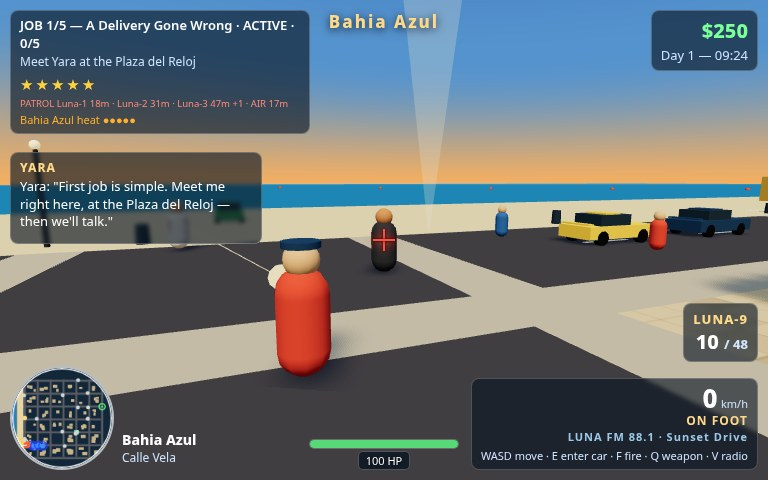
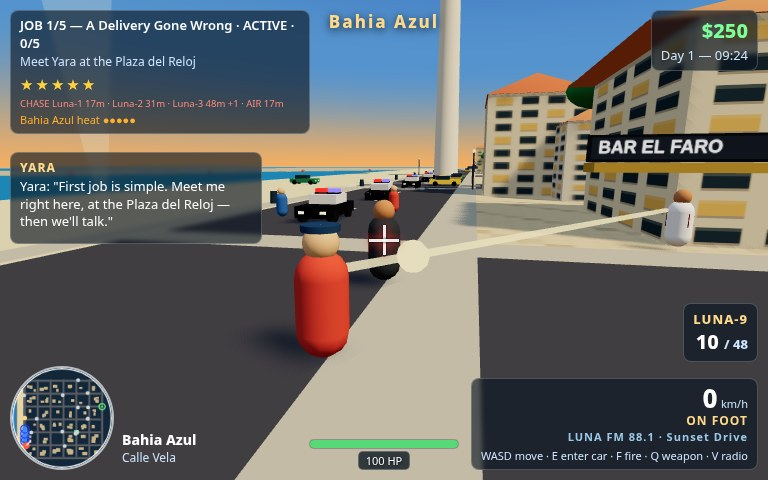
P0: re-stage combat shot — bigger guard, readable muzzle flash/tracer, CHASE patrol line

diff --git a/game/src/shots.js b/game/src/shots.js
@@ -153,20 +153,13 @@ function aimAt(world, tx, tz) {
   p.pitch = 0.1;
 }
 
-// Combat camera: a fixed side-on pose built from the live positions,
-// so the frame is composed rather than left to the follow camera.
-// The camera sits ~5.5 m behind the player (relative to the framed
-// guard) and ~2.2 m to the side, 3.1 m up, looking at the framed
-// guard's chest. The guard lands near screen centre — where the
-// crosshair lives — while the player sits off-centre in the
-// foreground, so the crosshair never sits on the player's back and
-// the tracer from the player's gun to the far guard cuts diagonally
-// across the frame. 5.5 m is the tuned distance: at 6.5 m the BAR EL
-// FARO sign — 8 m north of the player — poked its west end into the
-// right edge, and at 4.5 m the sign was gone but the player ballooned
-// to ~200 px and dominated the frame; at 5.5 m the sign clears the
-// edge by ~20 px and the player stays a foreground figure, not the
-// subject.
+// Combat camera: a fixed side-on pose from the live positions, so
+// the frame is composed rather than left to the follow camera.
+// 5.5 m behind the player, 2.2 m to the side, 3.1 m up, looking at
+// the framed guard's chest: the guard lands at screen centre —
+// where the crosshair lives — the player sits off-centre in the
+// foreground, and the tracer to the far guard cuts diagonally
+// across the frame. Tuned by projection, verified by eye.
 function combatShotCam(world, guard) {
   const p = world.player.state;
   const dx = guard.x - p.x, dz = guard.z - p.z;
@@ -190,28 +183,26 @@ function combatShotCam(world, guard) {
 // the player again.
 export const FOOT_CAR_OFFSET = { dx: -2.4, dz: -1.3 };
 
-// Combat background traffic: cars on the roads behind the fight, so
-// the harbor shot is not an empty lot. All three sit on real road
-// lines (x = -150 vertical, z = 110 coastal) and project into the
-// frame's background (verified by projection against the combat
-// camera) without touching the framed guard's screen box.
+// Combat background traffic: cars on the z=58 road far behind the
+// fight, so the harbor shot is not an empty lot. All three sit on a
+// real road line and project into the frame's background (verified by
+// projection against the combat camera) without touching the framed
+// guard's screen box.
 export const COMBAT_BACKGROUND_TRAFFIC = [
-  { x: -150, z: 92, heading: Math.PI }, // north on the x=-150 road, right background
-  { x: -150, z: 84, heading: Math.PI }, // further north, far-right edge
-  { x: -168, z: 110, heading: -Math.PI / 2 }, // west on the coastal road, mid-left
+  { x: -146, z: 58, heading: Math.PI / 2 }, // east on the z=58 road, centre background
+  { x: -124, z: 58, heading: Math.PI / 2 }, // further east, right background
+  { x: -168, z: 58, heading: Math.PI / 2 }, // west end, far-left edge
 ];
 
-// Combat pursuit staging: the responding units sit at genuinely
-// different ranges from the player instead of the spawn ring's four
-// identical 43 m. Offsets east along the coastal road; the distances
-// are computed live by policeStatus from these positions, never
-// hardcoded into the HUD. States are left exactly as the sim gave
-// them (PATROL here) — only positions are staged.
+// Combat pursuit: units at genuinely different ranges, staged
+// north up the x=-150 road so the north-looking camera sees them.
+// States are CHASE (wanted 5 — the response); distances come live
+// from policeStatus, never hardcoded into the HUD.
 export const COMBAT_PURSUIT_SPOTS = [
-  { dx: 18, dz: 1 },
-  { dx: 31, dz: 4 },
-  { dx: 47, dz: 1 },
-  { dx: 64, dz: 4 },
+  { dx: -6, dz: -16 },
+  { dx: -6, dz: -30 },
+  { dx: -6, dz: -48 },
+  { dx: -6, dz: -68 },
 ];
 
 export function stageCombatPursuit(world) {
@@ -221,7 +212,11 @@ export function stageCombatPursuit(world) {
     const spot = COMBAT_PURSUIT_SPOTS[i % COMBAT_PURSUIT_SPOTS.length];
     unit.car.x = p.x + spot.dx;
     unit.car.z = p.z + spot.dz;
-    unit.car.heading = Math.PI / 2;
+    unit.car.heading = 0; // south, driving toward the fight
+    unit.state = 'CHASE';
+    unit.stateTimer = 0;
+    unit.unseenTimer = 0;
+    unit.lastKnown = { x: p.x, z: p.z };
   });
 }
 
@@ -370,7 +365,7 @@ export function stageShot(name, world) {
       ped.route = null; ped.state = 'WALK';
     });
     const p = world.player.state;
-    world.placePlayer(-141, 109);
+    world.placePlayer(-144, 112);
     const living = () => world.combat.enemies.filter((e) => e.hp > 0);
     const byDist = (list) => [...list].sort((a, b) =>
       Math.hypot(a.x - p.x, a.z - p.z) - Math.hypot(b.x - p.x, b.z - p.z));

diff --git a/game/src/main.js b/game/src/main.js
@@ -739,15 +739,11 @@ function syncEnemies() {
   for (const [id, entry] of enemyMeshes) {
     if (!seen.has(id)) entry.group.visible = false;
   }
-  // Tracers: one THREE.Line per live tracer, fading with its life.
+  // Tracers: one stretched box per live tracer (a Line stays 1 px).
   const live = combat.tracers;
   while (tracerLines.length < live.length) {
-    const geo = new THREE.BufferGeometry().setFromPoints([
-      new THREE.Vector3(), new THREE.Vector3(),
-    ]);
-    const line = new THREE.Line(geo, new THREE.LineBasicMaterial({
-      color: 0xffe9a0, transparent: true, opacity: 0.9,
-    }));
+    const line = new THREE.Mesh(new THREE.BoxGeometry(0.12, 0.12, 1),
+      new THREE.MeshBasicMaterial({ color: 0xffe9a0, transparent: true, opacity: 0.9 }));
     line.frustumCulled = false;
     scene.add(line);
     tracerLines.push(line);
@@ -756,16 +752,16 @@ function syncEnemies() {
     const line = tracerLines[i];
     line.visible = true;
     line.material.opacity = Math.max(0, (t.life / t.max)) * 0.9;
-    const pos = line.geometry.attributes.position;
-    pos.setXYZ(0, t.from.x, t.from.y, t.from.z);
-    pos.setXYZ(1, t.to.x, t.to.y, t.to.z);
-    pos.needsUpdate = true;
+    line.position.set((t.from.x + t.to.x) / 2, (t.from.y + t.to.y) / 2, (t.from.z + t.to.z) / 2);
+    line.lookAt(t.to.x, t.to.y, t.to.z);
+    line.scale.set(1, 1, Math.hypot(t.to.x - t.from.x, t.to.y - t.from.y, t.to.z - t.from.z));
   });
   for (let i = live.length; i < tracerLines.length; i++) tracerLines[i].visible = false;
-  // Muzzle flash: a small bright sprite at the player's gun for 60 ms.
+  // Muzzle flash: a 0.30 m ball at the gun for 60 ms, pushed 1.8 m
+  // out so it clears the player's head and the framed guard.
   if (!muzzleSprite) {
     muzzleSprite = new THREE.Mesh(
-      new THREE.SphereGeometry(0.22, 8, 6),
+      new THREE.SphereGeometry(0.30, 8, 6),
       new THREE.MeshBasicMaterial({ color: 0xffe9a0 }),
     );
     scene.add(muzzleSprite);
@@ -776,7 +772,7 @@ function syncEnemies() {
     const yaw = car ? car.heading + Math.PI : p.yaw;
     const ox = car ? car.x : p.x, oz = car ? car.z : p.z;
     muzzleSprite.position.set(
-      ox - Math.sin(yaw) * 0.9, (car ? 1.4 : p.y + 1.5), oz - Math.cos(yaw) * 0.9,
+      ox - Math.sin(yaw) * 1.8, (car ? 1.4 : p.y + 1.5), oz - Math.cos(yaw) * 1.8,
     );
     muzzleSprite.visible = true;
   } else {

diff --git a/game/index.html b/game/index.html
@@ -93,7 +93,7 @@
   #hud-dialogue-choices button:hover { background: rgba(255, 217, 138, 0.32); }
   #hud-dialogue-choices button[hidden] { display: none; }
   #hud-crosshair { position: absolute; left: 50%; top: 50%; transform: translate(-50%, -50%);
-    width: 22px; height: 22px; pointer-events: none; }
+    width: 30px; height: 30px; pointer-events: none; }
   /* Contextual (Day 4B): hidden while driving — it sat on the car's
      roof in every driving shot. Shown only on foot (weapon ready). */
   #hud-crosshair[hidden] { display: none; }
@@ -106,10 +106,9 @@
   #hud-interact[hidden] { display: none; }
   #hud-crosshair::before, #hud-crosshair::after { content: ''; position: absolute; background: rgba(255,255,255,0.9);
     box-shadow: 0 0 3px rgba(0,0,0,0.9); }
-  #hud-crosshair::before { left: 10px; top: 0; width: 2px; height: 22px; }
-  #hud-crosshair::after { left: 0; top: 10px; width: 22px; height: 2px; }
+  #hud-crosshair::before { left: 14px; top: 0; width: 3px; height: 30px; }
+  #hud-crosshair::after { left: 0; top: 14px; width: 30px; height: 3px; }
   #hud-crosshair.hit { filter: drop-shadow(0 0 4px #ff4040); }
-  #hud-crosshair.hit::before, #hud-crosshair.hit::after { background: #ff5040; }
   #hud-ammo { position: absolute; right: 10px; bottom: 118px; text-align: right; font-size: 13px; }
   #hud-ammo-weapon { font-weight: 800; color: #ffd98a; letter-spacing: 1px; }
   #hud-ammo-count { font-size: 20px; font-weight: 800; }

diff --git a/game/src/mission-data.js b/game/src/mission-data.js
@@ -44,8 +44,8 @@ export const MISSIONS = {
     // Day 5A: guards are manifest-driven (main.js spawns them for any
     // mission that declares them) — no more hardcoded mission id.
     guards: [
-      { x: -146, z: 106, waypoints: [[-146, 106], [-138, 112], [-146, 118], [-154, 112]] },
-      { x: -154, z: 114, waypoints: [[-154, 114], [-146, 120], [-138, 114], [-146, 108]] },
+      { x: -144, z: 109, waypoints: [[-146, 106], [-138, 112], [-146, 118], [-154, 112]] },
+      { x: -136, z: 100, waypoints: [[-154, 114], [-146, 120], [-138, 114], [-146, 108]] },
     ],
     objectives: [
       { id: 'infiltrate_harbor', kind: 'reach', roadX: 0, roadZ: 5, radius: 12, onFoot: true, hud: 'Infiltrate the Puerto Luna warehouse on foot' },

diff --git a/game/src/combat.js b/game/src/combat.js
@@ -26,8 +26,8 @@ export const ENEMY_STATES = ['IDLE', 'PATROL', 'ALERT', 'INVESTIGATE', 'ENGAGE',
 // Harbor warehouse (M3 infiltrate target): roadX 0 = -150, roadZ 5 = 110.
 // Guards post around it and patrol a loop of the warehouse block.
 export const HARBOR_GUARDS = [
-  { x: -146, z: 106, waypoints: [[-146, 106], [-138, 112], [-146, 118], [-154, 112]] },
-  { x: -154, z: 114, waypoints: [[-154, 114], [-146, 120], [-138, 114], [-146, 108]] },
+  { x: -144, z: 109, waypoints: [[-146, 106], [-138, 112], [-146, 118], [-154, 112]] },
+  { x: -136, z: 100, waypoints: [[-154, 114], [-146, 120], [-138, 114], [-146, 108]] },
 ];
 
 function angleDiff(target, current) {
